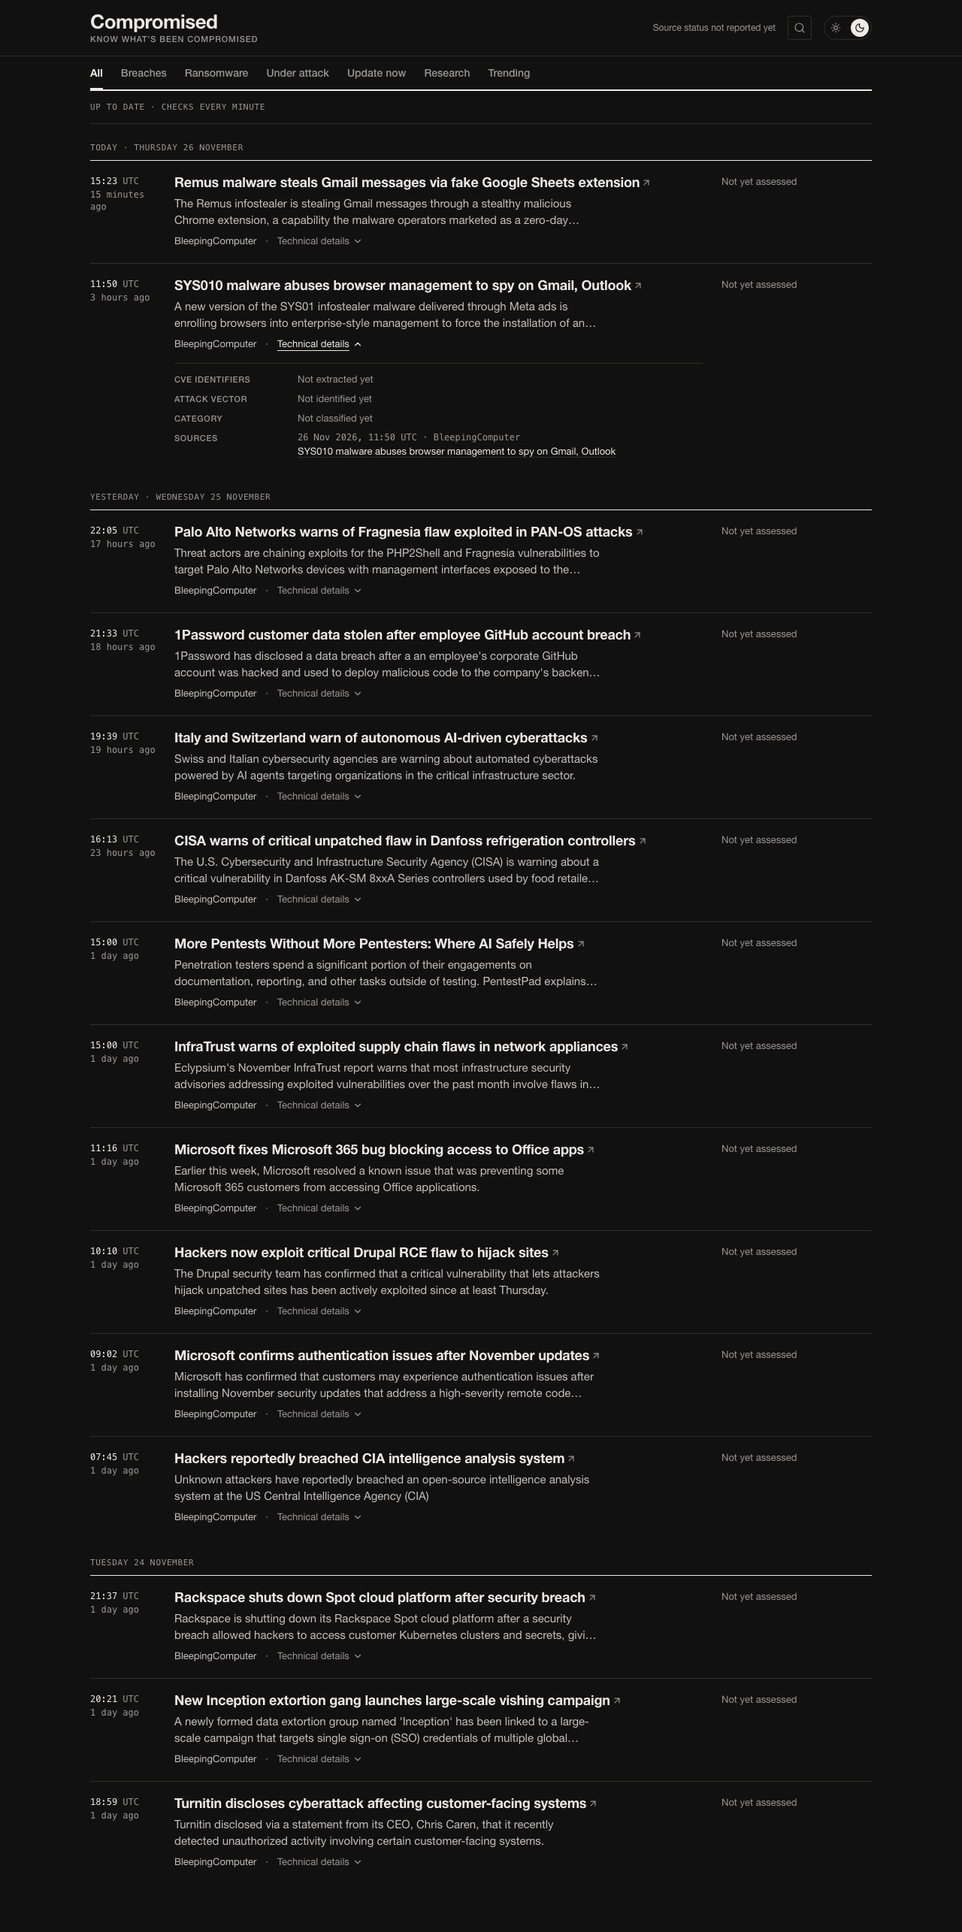
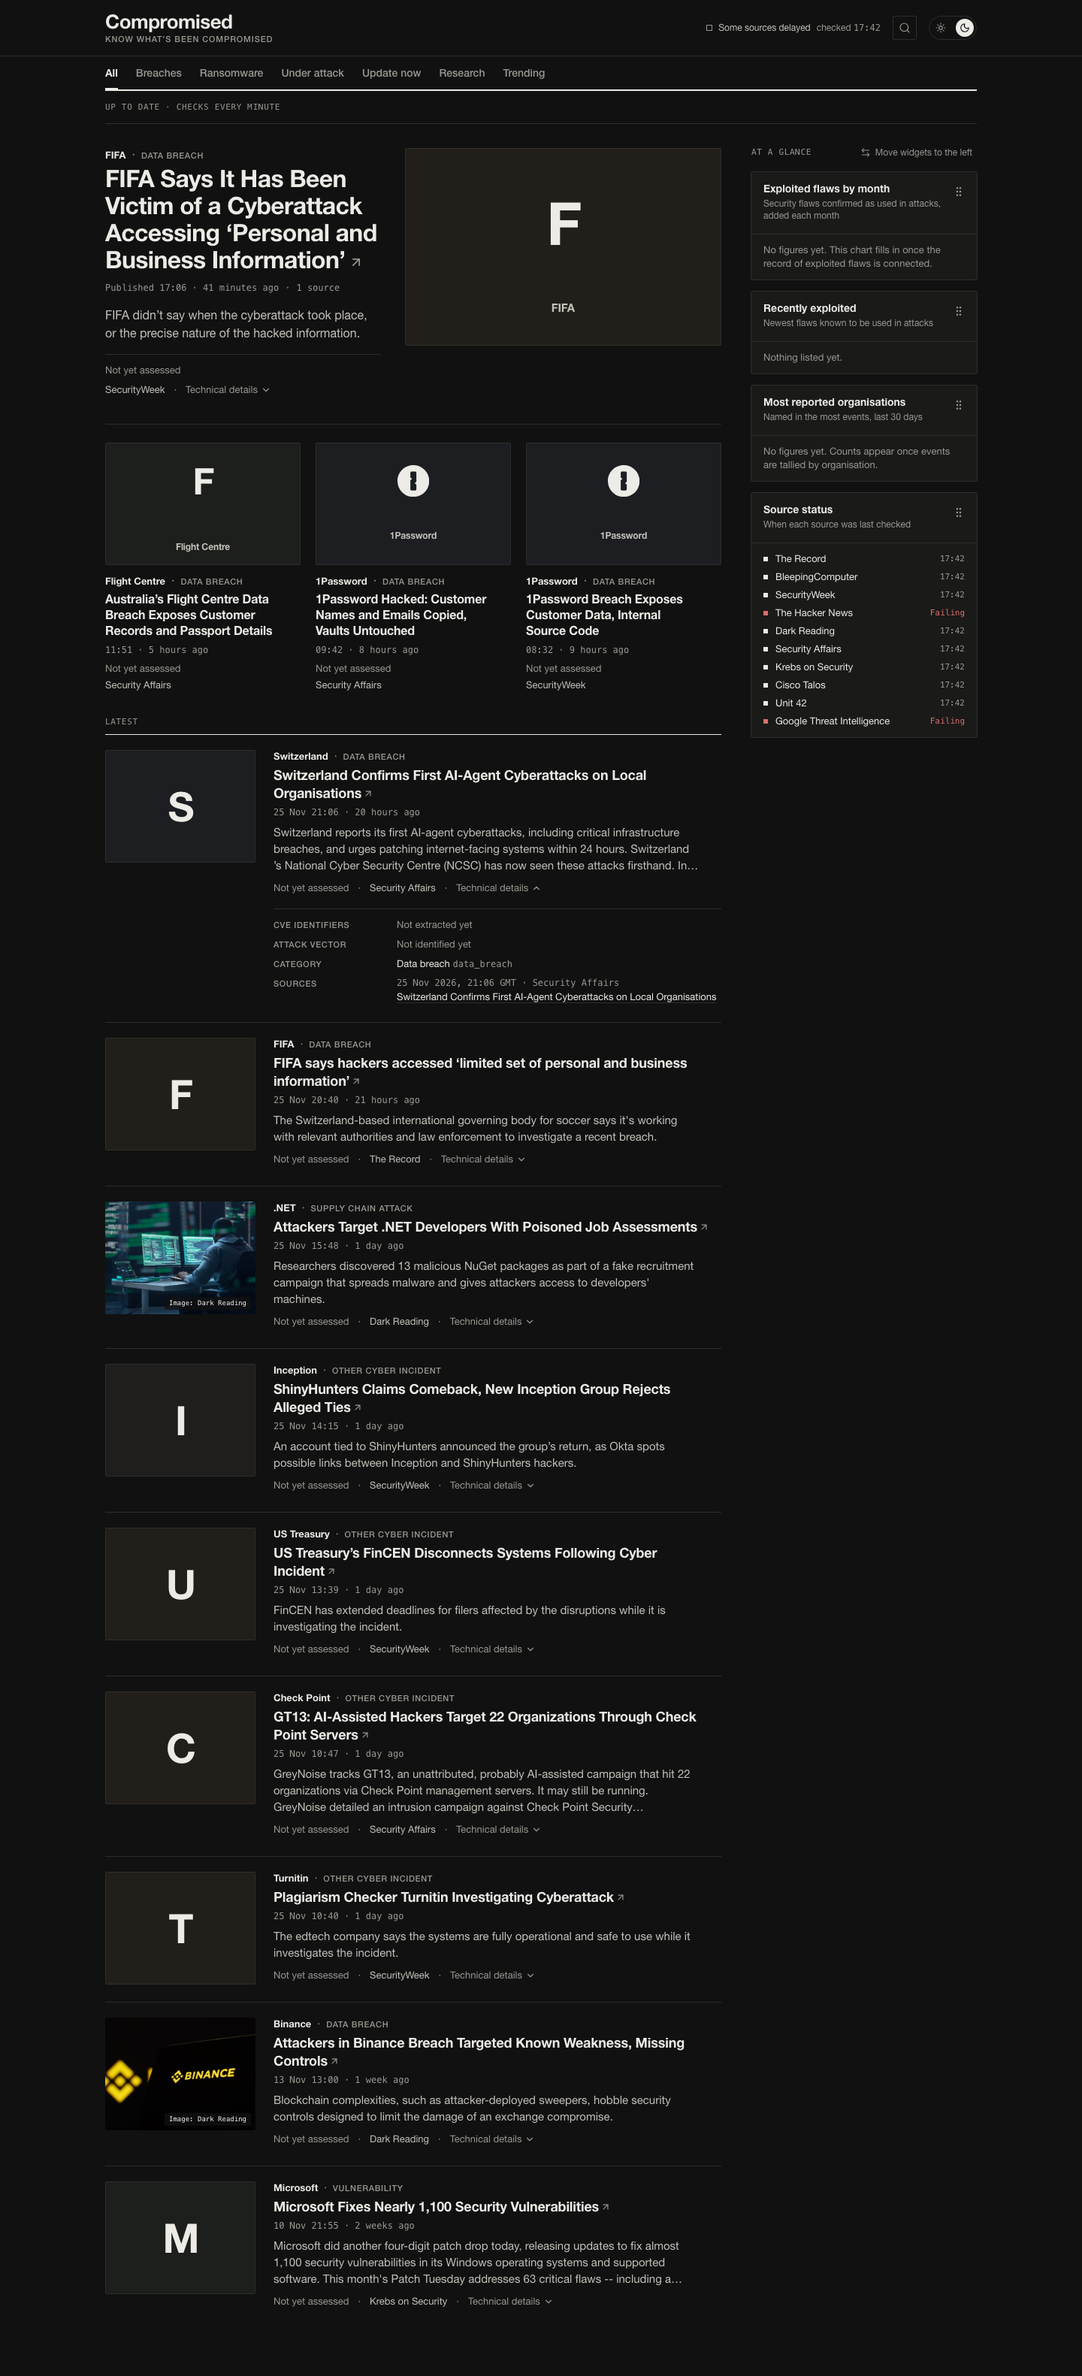
Replace the checkpoint screenshots and README for the image-led design
New full-page captures of the real feed and the sample preview at desktop,
phone and tablet in light and dark, with the changes against the owner's
review, Mobbin references, Bencho blocks and licences, shadcn components and
measured contrast. The Technical details expand moves into the Bencho Pro
folder, since it adapts the faq-accordion block.

diff --git a/web/components/feed/story-parts.tsx b/web/components/feed/story-parts.tsx
@@ -1,7 +1,7 @@
 // The pieces every story shows, shared by the featured lead, the cards and the feed rows, so
 // the trust label, the "AI summary" label, "Advice from source" and the technical details read
 // the same wherever an event appears. Every string from the API is rendered as React text.
-import { TechnicalDetails } from "@/components/feed/technical-details";
+import { TechnicalDetails } from "@/components/bencho-pro/technical-details";
 import { LocalTime } from "@/components/feed/local-time";
 import { categoryLabel, type FeedItem } from "@/lib/feed";
 

diff --git a/docs/design/checkpoint/README.md b/docs/design/checkpoint/README.md
@@ -1,89 +1,102 @@
-# Homepage design checkpoint (ticket #9)
+# Homepage design checkpoint (ticket #9), image-led revision
 
-Screenshots for the owner's sign-off, taken on 2026-11-26 from a production build. The real feed
-shows the 15 events one worker run stored from BleepingComputer's live feed on that date. The
-sample-data preview (`/preview`) shows the same components with every field that later tickets
-fill. Its events are invented, and a banner on every screen says so.
+Screenshots for the owner's sign-off, taken on 2026-11-26 from a production build, as a reader in
+London sees them (times are the reader's local time). This revision follows Niko's review of the
+first, text-only design (see "Niko's review of the first homepage design" in
+`docs/wiki/design-direction.md`).
 
-| | Light | Dark | Phone light | Phone dark | Tablet |
-|---|---|---|---|---|---|
-| Real feed (`/`) | [feed-light](feed-light.png) | [feed-dark](feed-dark.png) | [feed-phone-light](feed-phone-light.png) | [feed-phone-dark](feed-phone-dark.png) | [feed-tablet-light](feed-tablet-light.png) |
-| Sample data (`/preview`) | [sample-preview-light](sample-preview-light.png) | [sample-preview-dark](sample-preview-dark.png) | [sample-preview-phone-light](sample-preview-phone-light.png) | [sample-preview-phone-dark](sample-preview-phone-dark.png) | [sample-preview-tablet-light](sample-preview-tablet-light.png) |
+The real feed shows what one worker run stored from the live feeds on that date: 131 events, 13 of
+them on the All tab, 79 source records with a publisher image. The Hacker News and Google Threat
+Intelligence refused the connection on that run and were not retried. The sample-data preview
+(`/preview`) shows the same components with every field and widget that later tickets fill. Its
+events and figures are invented, and a banner on every screen says so.
 
-Desktop is 1280px wide, phone 390px (at 2x), tablet 820px. In each image the second row's
-"Technical details" is open. To regenerate, run a web build with `SAMPLE_PREVIEW=1` against an
-API with real events, then `BASE_URL=http://127.0.0.1:3000 node web/scripts/capture-checkpoint.mjs`.
+| | Light | Dark | Phone light | Phone dark | Tablet light | Tablet dark |
+|---|---|---|---|---|---|---|
+| Real feed (`/`) | [feed-light](feed-light.png) | [feed-dark](feed-dark.png) | [feed-phone-light](feed-phone-light.png) | [feed-phone-dark](feed-phone-dark.png) | [feed-tablet-light](feed-tablet-light.png) | [feed-tablet-dark](feed-tablet-dark.png) |
+| Sample data (`/preview`) | [sample-preview-light](sample-preview-light.png) | [sample-preview-dark](sample-preview-dark.png) | [sample-preview-phone-light](sample-preview-phone-light.png) | [sample-preview-phone-dark](sample-preview-phone-dark.png) | [sample-preview-tablet-light](sample-preview-tablet-light.png) | [sample-preview-tablet-dark](sample-preview-tablet-dark.png) |
+
+Desktop is 1440px wide, phone 390px (at 2x), tablet 820px. In each image the first feed row's
+"Technical details" is open. To regenerate: run a web build with `SAMPLE_PREVIEW=1` against an API
+with real events, then `BASE_URL=http://127.0.0.1:3000 node web/scripts/capture-checkpoint.mjs`.
+
+## What changed against the owner's review
+
+| Asked for | What the page does now |
+|---|---|
+| "More image esque", similar to Perplexity Discover | A featured section: one lead story with a large picture, headline, summary, published time and source count, then a row of three picture cards; below them the feed, every row with a picture. |
+| Pictures | The image a publisher put in its own feed (`media:content`, `media:thumbnail` or an image enclosure), https only, loaded by the reader's browser straight from the publisher with no referrer, credited on the picture ("Image: Dark Reading"). Never downloaded, proxied or cached by us; `PUBLISHER_IMAGES=off` removes them everywhere. Ransomware.live's images are never kept. Every other event, and any picture that fails to load, gets a designed tile: the company's Simple Icons logo where the catalog's logo key resolves, else a lettermark, on one of five restrained grounds picked by the company's name. |
+| Featured story chosen by rule | The newest event with a named organisation that is not an attacker claim (`web/lib/featured.ts`), with the "most independent sources in 24 hours, confirmed or credibly reported" rule already written behind one switch for when source counts and trust status arrive. |
+| Widgets beside the feed that the reader can move | A rail of four widgets: exploited flaws by month, recently exploited, most reported organisations, source status. Drag a widget by its handle, or focus the handle and use the arrow keys, Home and End (announced to screen readers); "Move widgets to the left/right" switches the side. Kept in local storage, applied before first paint, and the page works when storage is refused. On phones and tablets the widgets stack below the featured stories and are not draggable. |
+| A chart of exploitation over the months with spikes highlighted | Columns per month in a recessive grey; spike months (at least one standard deviation above the monthly average) in the muted red with their value printed above. Hover or keyboard focus rings the month, steps the others back and shows a tooltip with the count and, for a spike, notable incidents. One tab stop, arrow keys between months, and a table for screen readers. The component is designed for three views (frequency, by sector, service outages); only frequency renders until the other two are confirmed. |
+| Bencho "Text fade" as the vibe for how text appears | Used on the lead headline and summary on load, and on headlines of events that arrive after the reader presses the new-events bar. Nothing else fades. Off under reduced motion. |
+| Local time instead of UTC | Every time is in the reader's zone. The server renders a UTC fallback and the browser replaces it after hydration, with no hydration mismatch. |
+
+Kept from the first design: Helvetica Neue through the system stack, monospace for times and
+identifiers, near-black and off-white with the muted red accent, the trust label and 0-100 score
+always together with the source names, the "AI summary" label, "Advice from source", the
+Technical details expand, the new-events bar with rows that never move, light and dark themes.
 
 ## What the real feed shows today
 
-The API currently returns only the headline, link, publisher, times and the publisher's excerpt.
-Fields that later tickets fill show a quiet empty state on the real feed and are never guessed:
+Widgets other than source status have no API yet (issue #15). On the real page they say so
+quietly ("No figures yet", "Nothing listed yet") and show no invented values. Fields later tickets
+fill keep their quiet empty states: "Not yet assessed" instead of a trust label and score, the
+publisher's own excerpt (unlabelled) instead of an AI summary, "+N sources" omitted until
+grouping (#5).
 
-| Field | Filled by | Empty state on the real feed |
-|---|---|---|
-| Affected organisation | entity extraction | kicker line omitted |
-| Plain-language summary (labelled "AI summary") | enrichment | the publisher's own excerpt, unlabelled, two lines |
-| Category | classifier (#6) | kicker omitted; "Not classified yet" in details |
-| Trust label and score | verifier and scorer | "Not yet assessed", with no score |
-| Additional sources | deduplicator (#5) | "+N sources" omitted |
-| CVE identifiers, attack vector | normaliser, enrichment | "Not extracted yet", "Not identified yet" in details |
-| Action line | enrichment | omitted |
-| Live status in the header | source health (#3) | "Source status not reported yet" |
-| Section tabs other than All | classifier (#6) | "Nothing filed under X yet", explaining that every event is under All for now |
-
-## Wordmark
-
-Built option 3 from the design notes: **Compromised** in Helvetica Neue Bold, title case, with
-"KNOW WHAT'S BEEN COMPROMISED" beneath in small tracked capitals, both on one left edge. Why:
-title case reads as the name of a publication, as the FT's and Reuters' do, rather than a
-startup logo. The tagline tells a first-time, non-technical reader what the site is. And it
-leaves the muted red for meaning (live events, attacker claims) instead of decoration, which
-option 1's red full stop would not.
+Note for the owner: a publisher's picture is the publisher's choice. Some use exactly the imagery
+the brief bans (on this date Dark Reading's picture for the .NET story is a hooded figure in front
+of green code). The switch above turns all publisher pictures off if that is not acceptable.
 
 ## Mobbin references used
 
-From the design research notes, plus one new search for the phone header and tabs:
+Searched with the Mobbin MCP on 2026-11-26 (`search_screens`, web and iOS).
 
 | Where | Reference |
 |---|---|
-| Row structure: time gutter, kicker, headline, summary, hairlines between rows | NYT Latest, https://mobbin.com/screens/28844f36-ab35-441e-a93b-cb48af285b8e |
-| Red used only for the LIVE kicker; heavy rule under the section nav | NYT homepage, https://mobbin.com/screens/cb3938b3-d8af-4c12-a997-a7ecb83662f2 |
-| Row density: bold title over one muted metadata line | Matter, https://mobbin.com/screens/cae30201-5eac-4644-b476-19a5df22c410 |
-| Monospace times and identifiers | T1 Energy, https://mobbin.com/sites/sections/b9b87253-7e2f-480b-ae31-74bd0b240aa5 |
-| Day separators on a full-width rule | Basecamp, https://mobbin.com/screens/3119c9f0-832e-448d-b750-03e5a806e9f6 |
-| "+N sources" count | Perplexity Discover, https://mobbin.com/screens/ec59e633-ba10-46a5-9277-363061007f02 and https://mobbin.com/screens/59c4edb3-02b7-4642-9388-1e2c392eba36 (new search) |
-| Plain-words reliability label with a caution line (attacker claims) | Fey, https://mobbin.com/screens/5843d906-38f9-4c8c-8dba-cbeb8ce4453f |
-| Underline tabs under the search field, sideways scroll on phones | Substack search, https://mobbin.com/screens/bb39052c-33ec-48e9-add4-c57a0230dd54; X Explore, https://mobbin.com/screens/6bf7d0b1-2e65-4b83-b8df-fb05051c62d1 (new search) |
-| Phone row: time and source line over the headline | Perplexity iOS, https://mobbin.com/screens/071f652d-f323-4b96-a14c-e405e92eebc6 |
-| Quiet theme control, dark editorial rules | Quartz, https://mobbin.com/screens/3d7f16c7-6f6a-41a8-8ee5-1edfbc54ca98 |
+| Overall layout: lead story text beside a large picture, a row of three picture cards, then larger rows with the picture on the left; a widget rail on the right | Perplexity Discover (web): https://mobbin.com/screens/ec59e633-ba10-46a5-9277-363061007f02, https://mobbin.com/screens/c40ed5d6-e417-4bf6-9d84-89b6b46ff08f, https://mobbin.com/screens/7028c676-1d3b-44e1-b1cd-290407e9b7a8, https://mobbin.com/screens/14c9db17-6526-4c8f-a166-1e24309acafd, https://mobbin.com/screens/423c2053-3a7f-4e84-ac8a-0723f1790a45 |
+| "Published 9 hours ago" line and source count under the lead headline | Perplexity Discover, same screens |
+| Image credit chip on the picture | Perplexity article page: https://mobbin.com/screens/626cd530-7a9d-4b33-8e12-70b356083244 |
+| Phone: picture above the lead headline, smaller pictures beside headlines below | Perplexity iOS Discover: https://mobbin.com/screens/cbca6cd0-2be2-4b07-b4a0-049a259ea642; Apple News: https://mobbin.com/screens/9d5426c7-3903-4c59-acfb-b5931592f42c |
+| Widgets the reader rearranges by dragging | Evernote "Customize your Home": https://mobbin.com/screens/c3ebaee2-159b-4cb8-96ff-856640b7a041; Xero business overview: https://mobbin.com/screens/c86d6e12-6b97-47de-b96b-33e24d57e1fe |
+| Kept from the first round: underline tabs, mono times, red only for LIVE and claims, plain-words reliability label | NYT, T1 Energy, Substack, Fey (links in the research notes) |
 
 ## Bencho blocks used
 
-All five were fetched with the Bencho MCP's `get_block` without errors, then restyled.
+Fetched with the Bencho MCP's `get_block`. Bencho's licence page (bencho.dev/licence, last updated
+12 October 2026) says Pro blocks may be used in anything you make, and "an open source project is
+fine, as long as the block is part of the thing it builds rather than offered on its own"; they
+may not be passed on as blocks (on their own, or in a UI kit, component library, template,
+snippet collection, or a service that hands blocks to others). Every Pro adaptation is in
+`web/components/bencho-pro/`, with a README stating that licence, apart from the MIT code.
 
-| Block | Licence | Used for | Kept | Removed or changed |
-|---|---|---|---|---|
-| `notify-widget` | Pro | "N new events" bar (`web/components/feed/new-events-bar.tsx`) | The pill and its AnimatePresence `popLayout` text swap (framer-motion) | Dropdown card, avatars package, bell shake; restyled as a full-width ink bar with square corners |
-| `faq-accordion` | Pro | "Technical details" expand (`web/components/feed/technical-details.tsx`) | The `grid-template-rows: 0fr → 1fr` opening and the chevron that flips | Word-by-word blur reveal (decorative). Open/closed state comes from the shadcn Collapsible |
-| `theme-switch` | Pro | Header theme switch (`web/components/site/theme-switch.tsx`) | Both icons always visible, a disc that slides between them, reading the page's own theme from the root element | Resized to 64x32 with a hairline border; frame painting removed; driven by next-themes |
-| `seek` | MIT | Header search on tablet and desktop (`web/components/site/search-field.tsx`) | One object whose width is the state, the lens fixed at its inset, press feedback, Escape and empty-blur to close | Corner 2, no cursor magnet, no glass; a CSS overshoot curve instead of its JS spring; the field is the shadcn Input |
-| `rolling-counter` | MIT | The count in the new-events bar (`web/components/feed/rolling-number.tsx`) | Digit strips behind a masked window, monospace tabular digits | Buttons, drag and fling; a CSS transition instead of its per-column spring |
+| Block | Licence | Used for | Where |
+|---|---|---|---|
+| Text fade (`text-fade`) | Pro | Lead headline and summary on load; newly arrived events | `web/components/bencho-pro/text-fade/` |
+| Reorder list (`liq-arrange`) | Pro | Dragging widgets in the rail | `web/components/bencho-pro/arrange/` |
+| Notification widget (`notify-widget`) | Pro | The "N new events" bar | `web/components/bencho-pro/new-events-bar.tsx` |
+| FAQ accordion (`faq-accordion`) | Pro | Technical details expand | `web/components/bencho-pro/technical-details.tsx` |
+| Theme switch (`theme-switch`) | Pro | Header theme switch | `web/components/bencho-pro/theme-switch.tsx` |
+| Stacked bars (`stacked-bars`) | MIT | The exploitation chart's ring, step-back and gliding tooltip | `web/components/widgets/exploitation-chart.tsx` (notice in `web/licenses/bencho-mit.txt`) |
+| Search (`seek`), Rolling counter (`rolling-counter`) | MIT | Header search; the count in the new-events bar | unchanged from the first round |
 
-Pro blocks may be used in anything built but not redistributed as blocks. These are adapted into
-the site's own components, not shipped as Bencho blocks. The `gauge` block was not used, as the
-notes recommend: a dial invites reading the score as a measurement.
+How Text fade's tokens map: `--ink` and `--fill-on` inherit the surrounding text colour (headline
+ink, summary ink-2), `--signal` is our focus colour, `--d` and `--trv-dur` are set inline per word.
+Its press-to-replay behaviour is removed because the text is a link.
 
 ## shadcn/ui components used
 
-`item` (each feed row), `tabs` (section tabs, line variant, each tab a link), `collapsible`
-(Technical details), `badge` (trust label), `separator` (row rules), `empty` (empty sections),
-`skeleton` (loading state), `input` (search field), `button` (already present). Theming is
-next-themes, as shadcn's dark-mode guide prescribes. shadcn's colour variables are mapped onto
-the Compromised tokens in `web/app/globals.css`, so every primitive follows the palette.
+New this round: `aspect-ratio` (every picture and tile), `card` (each widget), `toggle-group` (the
+chart's view switcher, present in the component but not rendered while only one view exists).
+Still used: `item` (feed rows), `tabs` (section tabs), `collapsible` (Technical details), `badge`
+(trust label), `separator`, `empty`, `skeleton`, `input`, `button`.
 
 ## Contrast (WCAG 2), measured
 
-Measured with `node web/scripts/contrast.mjs` from the tokens in `web/app/globals.css`:
+Measured with `node web/scripts/contrast.mjs` from the tokens in `web/app/globals.css`, including
+the colours computed by `color-mix()`. Every pair passes AA (4.5:1 for text, 3:1 for non-text
+marks).
 
 | Pair | Use | Light | Dark | Needs |
 |---|---|---|---|---|
@@ -95,10 +108,17 @@ Measured with `node web/scripts/contrast.mjs` from the tokens in `web/app/global
 | `c-accent` on `c-accent-soft` | Sample data banner label | 5.56:1 | 5.08:1 | 4.5:1 |
 | `c-ink` on `c-accent-soft` | Sample data banner text | 15.26:1 | 13.83:1 | 4.5:1 |
 | `c-bg` on `c-ink` | New-events bar text | 17.31:1 | 15.85:1 | 4.5:1 |
-| `c-rule-strong` on `c-bg` | Section and day rules (non-text) | 17.31:1 | 15.85:1 | 3:1 |
+| `c-rule-strong` on `c-bg` | Section rules (non-text) | 17.31:1 | 15.85:1 | 3:1 |
+| `c-ink` on `c-surface` | Widget titles and values | 18.09:1 | 14.62:1 | 4.5:1 |
+| `c-ink-2` on `c-surface` | Chart labels, widget text | 10.92:1 | 9.69:1 | 4.5:1 |
+| `c-accent` on `c-surface` | Spike columns (non-text) | 6.60:1 | 5.37:1 | 3:1 |
+| `chart-grey` on `c-surface` | Other chart columns (non-text) | 3.30:1 | 3.18:1 | 3:1 |
+| `#f6f5f1` on 75% `#111111` over white | Image credit on the lightest possible picture | 7.75:1 | 7.75:1 | 4.5:1 |
+| `c-ink` on `tile-1`…`tile-5` | Tile logo or lettermark | 14.84–15.42:1 | 13.78–14.01:1 | 3:1 |
+| `c-ink-2` on `tile-1`…`tile-5` | Tile organisation caption | 8.96–9.31:1 | 9.14–9.29:1 | 4.5:1 |
 
-Changes from the proposed tokens:
-- Dark accent `#D2625B` became `#D9706A`. On the dark accent-soft tint it measured 4.42:1, below AA.
-- `ink-3` was darkened in light (`#6A6864` to `#64625E`, 5.10 to 5.58:1) and lightened in dark
-  (`#8F8C86` to `#9A9790`, 5.63 to 6.48:1). It carries 11-12px text, so it needs margin above the minimum.
-- The dark surface and rule (`#1A1A19`, `#2E2D2B`) were nudged so hairlines stay visible.
+The chart's two mark colours were also run through the dataviz skill's palette validator against
+each theme's widget surface: CVD separation ΔE 15.7 (light) and 9.0 (dark), normal-vision ΔE 21.0
+and 19.4, both above 3:1 on the surface. Its "chroma floor" check flags the grey, which is the
+intended de-emphasis grey of the emphasis form, not a categorical colour. Spike months also carry
+their value above the column, so colour is never the only signal.

diff --git a/web/components/bencho-pro/README.md b/web/components/bencho-pro/README.md
@@ -22,6 +22,7 @@ files below; nothing outside this folder contains Pro block code.
 | `text-fade/text-fade.tsx`, `text-fade/text-fade.css` | Text fade (`text-fade`, TextReveal) | The blur-rise keyframe, expo-out easing and one-keyframe-many-delays method, with the block's comments. Words split only; press-to-replay removed; tokens mapped to ours. |
 | `text-fade/arrival-fade.tsx` | Text fade (as above) | Plays the fade only for events that arrive after the page loaded. |
 | `arrange/widget-rail.tsx`, `arrange/arrangement.ts` | Reorder list (`liq-arrange`, Arrange) | Pointer drag pinned to its start slot, reorder under the gesture, elastic spring. Goo filter, squash and lean removed; handle, keyboard moves and side switch added. |
+| `technical-details.tsx` | FAQ accordion (`faq-accordion`) | The `0fr -> 1fr` grid-row opening and the flipping chevron; state from the shadcn Collapsible. |
 | `new-events-bar.tsx` | Notification widget (`notify-widget`) | The pill and its rolling "N new" swap only. |
 | `theme-switch.tsx` | Theme switch (`theme-switch`) | Restyled; driven by next-themes. |
 
